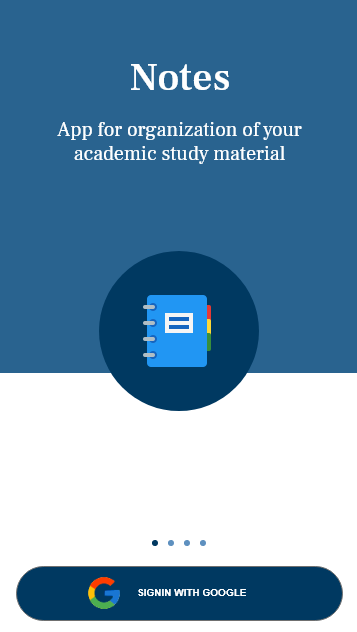
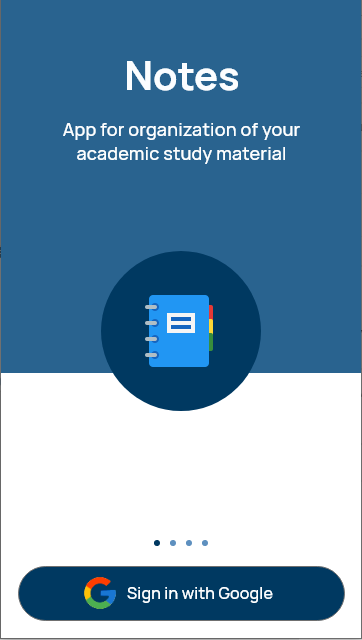
Update README.md
* Add Badge for contribution and license
* Update screenshots of onboarding page

diff --git a/README.md b/README.md
@@ -1,4 +1,8 @@
-# Notes
+<p align="center">
+	<h1> Notes </h1> <br>
+	<img alt="Contributions Welcome" src="https://img.shields.io/badge/contributions-welcome-brightgreen?style=for-the-badge&labelColor=black&logo=github">
+	<img alt="License" src="https://img.shields.io/github/license/gupta-shrinath/Notes?color=bright%20green&logo=github&style=for-the-badge">
+</p>
 * Notes is a simple mobile application for students which allows them to share the notes, assignment, experiments  and any other study material.
 * Notes provides notifications, notice board and voting system.  
 
